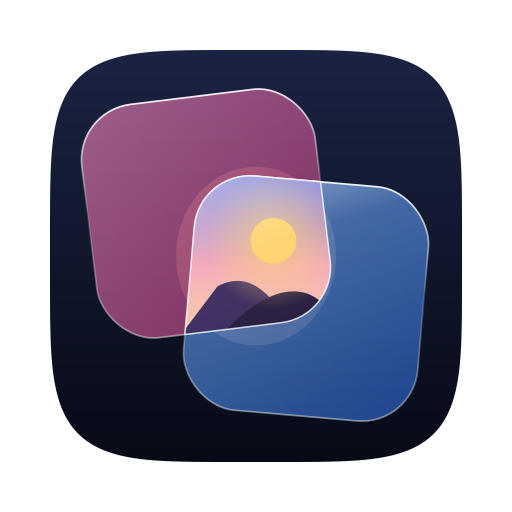
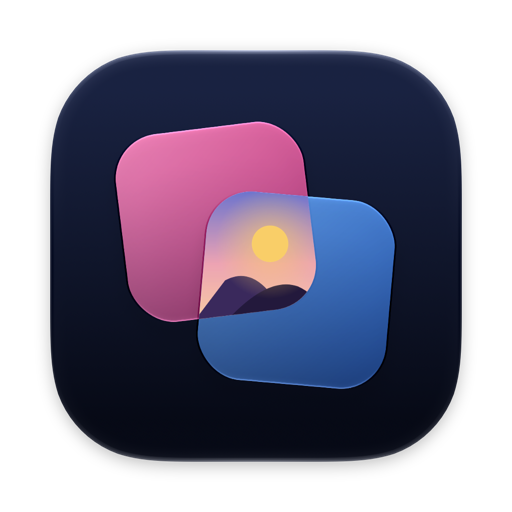
Coming soon page

diff --git a/index.html b/index.html
@@ -4,125 +4,48 @@
 <meta charset="utf-8">
 <meta name="viewport" content="width=device-width, initial-scale=1">
 <title>SyncMyLibs</title>
-<meta name="description" content="A Mac app that opens all your Apple Photos libraries at once and moves photos between them with faces, keywords and albums still attached. Not released yet.">
-<meta name="color-scheme" content="light dark">
+<meta name="description" content="A new way to manage your photo libraries. Coming soon.">
+<meta name="color-scheme" content="dark">
+<meta name="theme-color" content="#0d1330">
 <link rel="icon" type="image/png" href="/icon.png">
 <link rel="apple-touch-icon" href="/icon.png">
 <meta property="og:title" content="SyncMyLibs">
-<meta property="og:description" content="Photos opens one library. You have more than one.">
+<meta property="og:description" content="A new way to manage your photo libraries. Coming soon.">
 <meta property="og:image" content="https://syncmylibs.app/icon.png">
 <meta property="og:url" content="https://syncmylibs.app">
 <style>
-:root {
-  --serif: "New York", ui-serif, Georgia, serif;
-  --sans: -apple-system, BlinkMacSystemFont, "Helvetica Neue", sans-serif;
-
-  --blue: #3d64aa;
-
-  --bg: #f7f6f9;
-  --ink: #15192e;
-  --muted: #5b6075;
-  --line: rgba(21, 25, 46, 0.12);
-}
-@media (prefers-color-scheme: dark) {
-  :root {
-    --bg: #0d1124;
-    --ink: #eceef6;
-    --muted: #9da3ba;
-    --line: rgba(236, 238, 246, 0.12);
-  }
-}
-
 * { margin: 0; box-sizing: border-box; }
+html, body { height: 100%; }
 body {
-  font: 18px/1.6 var(--sans);
-  background: var(--bg);
-  color: var(--ink);
+  display: grid; place-items: center;
+  padding: 2rem 1rem;
+  font-family: -apple-system, BlinkMacSystemFont, "Helvetica Neue", sans-serif;
+  color: #f2f3fa;
+  background:
+    radial-gradient(40rem 32rem at 30% 30%, rgba(214, 96, 160, 0.22), transparent 70%),
+    radial-gradient(40rem 32rem at 72% 68%, rgba(74, 132, 222, 0.24), transparent 70%),
+    linear-gradient(180deg, #18214a, #080b1a);
   -webkit-font-smoothing: antialiased;
 }
-::selection { background: var(--blue); color: #fff; }
-
-main { max-width: 40rem; margin: 0 auto; padding: 0 1.25rem; }
-
-header { padding: 6rem 0 4.5rem; }
-.icon { width: 112px; height: 112px; display: block; margin: 0 0 2.25rem -10px; }
-h1 {
-  font: 600 clamp(2.4rem, 7vw, 3.6rem)/1.08 var(--serif);
-  letter-spacing: -0.015em;
-}
-.lede { margin-top: 1.5rem; font-size: 1.2rem; }
-.status { margin-top: 1.25rem; color: var(--muted); font-size: 1rem; }
-
-section { padding: 3.5rem 0; border-top: 1px solid var(--line); }
-h2 {
-  font: 600 1.75rem/1.2 var(--serif);
-  letter-spacing: -0.01em;
-  margin-bottom: 2rem;
-}
-h3 { font-size: 1.05rem; margin-bottom: 0.35rem; }
-.feature + .feature { margin-top: 2rem; }
-.feature p, .limits li { color: var(--muted); }
-
-.limits { list-style: none; padding: 0; }
-.limits li + li { margin-top: 1.1rem; }
-.limits strong { color: var(--ink); font-weight: 600; }
-
-footer { padding: 2.5rem 0 3.5rem; border-top: 1px solid var(--line); color: var(--muted); font-size: 0.9rem; }
-
-header > * { animation: rise 0.7s cubic-bezier(0.22, 1, 0.36, 1) both; }
-header > :nth-child(2) { animation-delay: 0.08s; }
-header > :nth-child(3) { animation-delay: 0.16s; }
-header > :nth-child(4) { animation-delay: 0.24s; }
-@keyframes rise { from { opacity: 0; transform: translateY(14px); } }
-@media (prefers-reduced-motion: reduce) {
-  header > * { animation: none; }
-}
-
-@media (max-width: 30rem) {
-  body { font-size: 17px; }
-  header { padding: 3.5rem 0 3rem; }
-  .icon { width: 88px; height: 88px; margin-bottom: 1.75rem; }
+main { text-align: center; }
+img { width: 168px; height: 168px; display: block; margin: 0 auto 1.25rem; }
+h1 { font-size: clamp(2.25rem, 7vw, 3.25rem); font-weight: 700; letter-spacing: -0.02em; }
+p { margin-top: 0.6rem; font-size: clamp(1.1rem, 3.6vw, 1.35rem); color: rgba(242, 243, 250, 0.78); }
+.soon {
+  display: inline-block; margin-top: 2rem; padding: 0.55rem 1.3rem;
+  border-radius: 999px; font-size: 1rem; font-weight: 600; color: #f2f3fa;
+  background: rgba(255, 255, 255, 0.08);
+  border: 1px solid rgba(255, 255, 255, 0.18);
+  -webkit-backdrop-filter: blur(16px); backdrop-filter: blur(16px);
 }
 </style>
 </head>
 <body>
 <main>
-  <header>
-    <img class="icon" src="/icon.png" alt="SyncMyLibs app icon" width="112" height="112">
-    <h1>Photos opens one library. You have more than one.</h1>
-    <p class="lede">SyncMyLibs is a Mac app that opens all of them in one window and moves photos between them with the faces, keywords and albums still attached.</p>
-    <p class="status">Not released yet. It needs a Mac with Apple silicon and macOS 15 Sequoia or later.</p>
-  </header>
-
-  <section aria-labelledby="does">
-    <h2 id="does">What it does</h2>
-    <div class="feature">
-      <h3>Every library, open at once</h3>
-      <p>Your main library, the one Photos opens, and any others you keep, on this Mac or on an external drive, side by side in one sidebar.</p>
-    </div>
-    <div class="feature">
-      <h3>Photos move with their details</h3>
-      <p>Faces and people, keywords, albums and folders, locations, dates, photo edits, Live Photos and RAW+JPEG pairs come across with each photo. The original is never re-encoded.</p>
-    </div>
-    <div class="feature">
-      <h3>Merges without doubles</h3>
-      <p>Before one library goes into another, it finds the photos already there, exact copies or look-alikes, and asks whether to skip them.</p>
-    </div>
-  </section>
-
-  <section aria-labelledby="short">
-    <h2 id="short">Where it falls short</h2>
-    <ul class="limits">
-      <li><strong>Faces don't carry into your main library.</strong> Apple gives apps no way to write them there, so Photos finds the faces again on its own. Copies into any other library keep them.</li>
-      <li><strong>Edited videos arrive unedited.</strong> Photos keeps a video's edits as instructions, not as a finished file, so there is nothing to copy.</li>
-      <li><strong>People are matched by name.</strong> A copy won't work out that an unnamed face is someone you named in the other library.</li>
-      <li><strong>Albums lose their manual order.</strong> Every photo arrives, but not in the order you arranged them.</li>
-      <li><strong>Renaming or merging people in your main library stays on that Mac,</strong> and Photos has to be closed while it happens.</li>
-      <li><strong>It needs Full Disk Access,</strong> because macOS keeps photo libraries behind its file protections. It connects to two things only: the update check, and Apple Maps if you switch maps on, which sends a photo's location to Apple.</li>
-    </ul>
-  </section>
-
-  <footer>© 2027 Amerruki</footer>
+  <img src="/icon.png" alt="SyncMyLibs app icon" width="168" height="168">
+  <h1>SyncMyLibs</h1>
+  <p>A new way to manage your photo libraries</p>
+  <span class="soon">Coming soon</span>
 </main>
 </body>
 </html>

diff --git a/BRAND.md b/BRAND.md
@@ -4,37 +4,29 @@ How SyncMyLibs looks and speaks outside the app. In-app design law lives in the 
 
 ## Idea
 
-Everything derives from the app icon: two library tiles, pink behind and blue in front, leaning toward each other over a deep navy ground, with one dusk photo where they cross. Two libraries, one photo.
+Everything derives from the app icon: two glass library tiles, pink behind and blue in front, leaning toward each other over a deep navy ground, with one dusk photo where they cross. The site should feel like the icon: glassy, fluid, translucent.
 
 ## Color
 
 | Token | Value | Role |
 |---|---|---|
-| Pink | `#8E4A7C` | The back tile. Paired with blue, never alone |
-| Blue | `#3D64AA` | The front tile. Text selection and any accent |
-| Light bg / ink | `#F7F6F9` / `#15192E` | Page base, light |
-| Dark bg / ink | `#0D1124` / `#ECEEF6` | Page base, dark |
+| Navy, top / bottom | `#18214A` / `#080B1A` | The page ground, a vertical gradient like the icon's |
+| Pink glow | `rgba(214, 96, 160, 0.22)` | The back tile, as a soft wash |
+| Blue glow | `rgba(74, 132, 222, 0.24)` | The front tile, as a soft wash |
+| Ink | `#F2F3FA` | Text |
 
-The sun amber in the icon stays in the icon. Success and error follow macOS system colors.
+Dark only. The sun amber stays in the icon.
 
 ## Type
 
-- Headlines: New York (`ui-serif`), weight 600, tight leading. Fallback Georgia.
-- Body: SF Pro (`-apple-system`), 18px base.
-- No all-caps labels, no tracked-out kickers, no monospace "fact" strips.
-
-Every reader is on an Apple device, so Apple's own faces cost nothing to load.
-
-## Layout and motion
-
-One narrow column. No glass cards, grain, fake app windows or icon grids. One entrance on load, off under `prefers-reduced-motion`.
+SF Pro (`-apple-system`). No all-caps labels, no tracked-out kickers, no monospace strips.
 
 ## Voice
 
-Say what the app does in plain sentences, then say where it falls short. Claim only what the app does today, and never imply it can be downloaded or bought before it can.
+Short and confident. Say what it is, never list what it lacks. Never imply it can be downloaded or bought before it can.
 
-Never use: em dashes, middots or dashes as separators between phrases, eyebrows above headings, "supercharge", "seamless", "blazingly", "AI-powered", or a feature that is really a release step (signing, notarization).
+Never use: em dashes, middots or dashes as separators, eyebrows above headings, "supercharge", "seamless", "blazingly", "AI-powered", or a release step dressed as a feature (signing, notarization).
 
 ## Icon
 
-Drawn from geometry by `Tools/IconGen/icon.py` in the app repo, which writes `Resources/AppIcon.icns`. The site's `/icon.png` is the 512px rendition from that file (`iconutil -c iconset`). Regenerate there and re-export; never hand-edit.
+`/icon.png` is the icon macOS shows for the installed app: the Liquid Glass render compiled from `Resources/AppIcon.icon` in the app repo, taken with `NSWorkspace.shared.icon(forFile: "/Applications/SyncMyLibs.app")` at 1024px and scaled to 512px. Do not use the flat `Resources/AppIcon.icns`; it is the fallback for older macOS and looks different.
